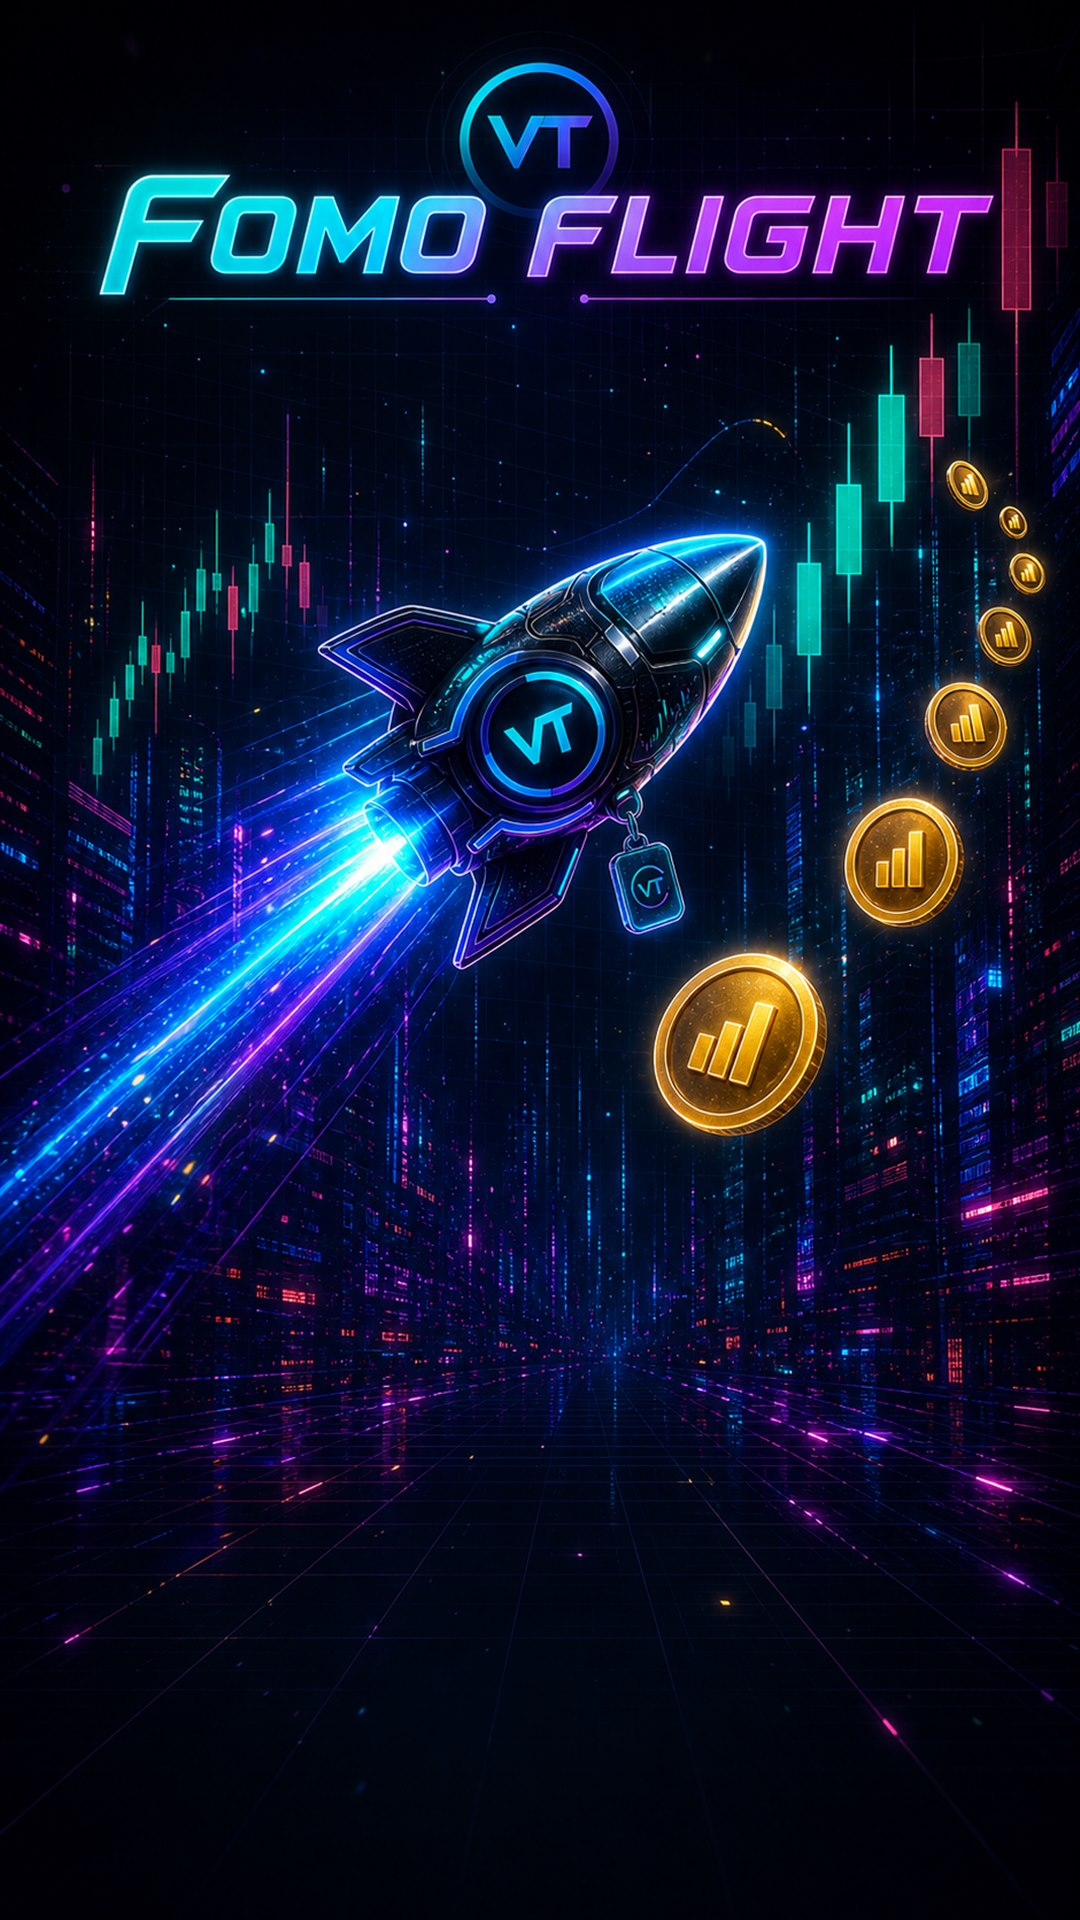
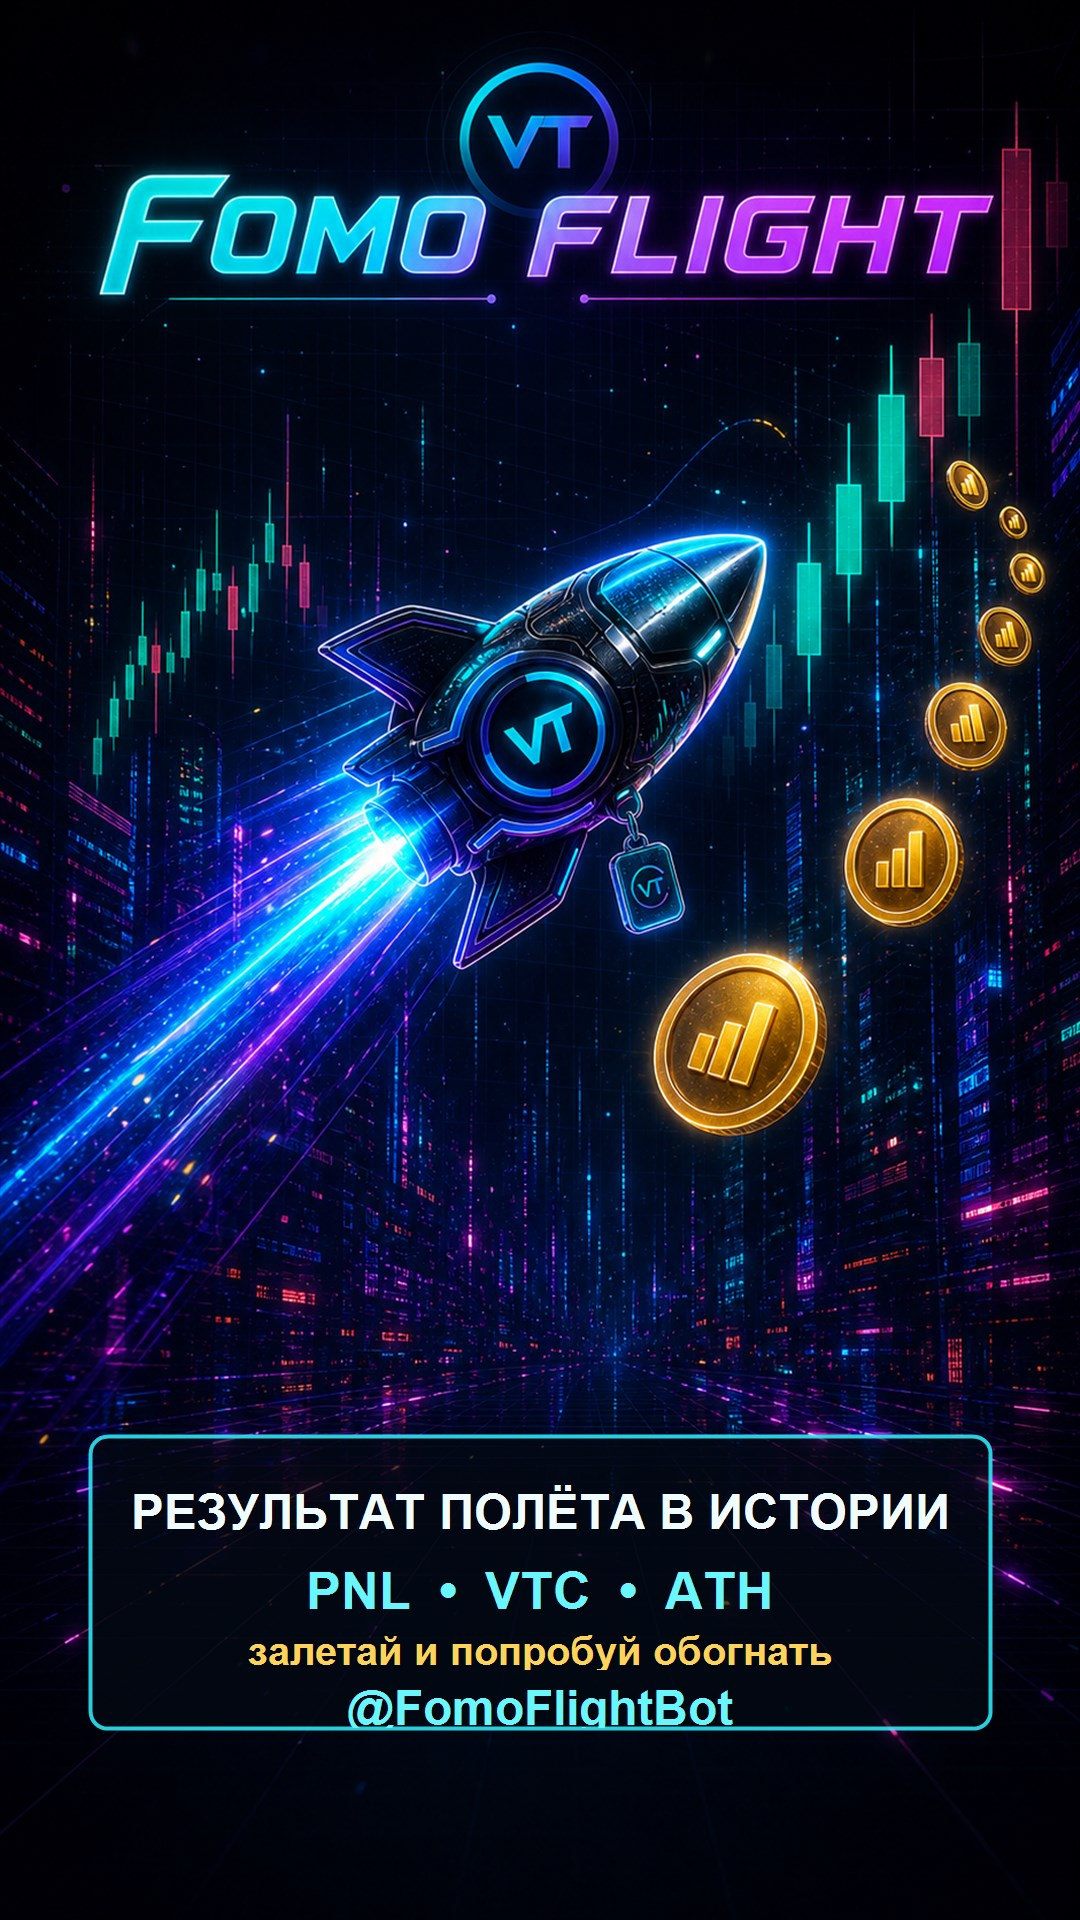
Improve story share copy

diff --git a/public/index.html b/public/index.html
@@ -1777,11 +1777,12 @@
 
         async function share() {
           const data = lastRun.score ? lastRun : { score: Math.floor(score), vtc: runCoins, ath: progress.best, newBest: false, line: gameOverLine() };
+          const pilot = displayName();
           const message = data.newBest
-            ? `Fomo Flight: NEW ATH ${data.ath} PNL, +${data.vtc} VTC. Can you beat it?\n@FomoFlightBot`
-            : `Fomo Flight: ${data.score} PNL, +${data.vtc} VTC. Can you beat my ATH?\n@FomoFlightBot`;
+            ? `Fomo Flight: ${pilot} hit NEW ATH ${data.ath} PNL and earned +${data.vtc} VTC. Can you beat it?\n@FomoFlightBot`
+            : `Fomo Flight: ${pilot} scored ${data.score} PNL, earned +${data.vtc} VTC. Can you beat my ATH ${data.ath}?\n@FomoFlightBot`;
           const appLink = miniAppLink;
-          const storyText = (data.newBest ? `NEW ATH ${data.ath} PNL, +${data.vtc} VTC\n@FomoFlightBot | t.me/FomoFlightBot` : `${data.score} PNL, +${data.vtc} VTC\n@FomoFlightBot | t.me/FomoFlightBot`).slice(0, 190);
+          const storyText = storyShareText(data, pilot);
           const shareUrl = `https://t.me/share/url?url=${encodeURIComponent(appLink)}&text=${encodeURIComponent(message)}`;
           const card = createShareCard(data);
           try {
@@ -1813,6 +1814,13 @@
             else window.open(shareUrl, "_blank");
           }
           beep("buy");
+        }
+
+        function storyShareText(data, pilot) {
+          const line1 = data.newBest ? `NEW ATH: ${data.ath} PNL` : `${pilot}: ${data.score} PNL`;
+          const line2 = data.newBest ? `+${data.vtc} VTC earned` : `+${data.vtc} VTC | ATH ${data.ath}`;
+          const line3 = data.newBest ? "Can you beat this flight?" : "Can you beat my flight?";
+          return `${line1}\n${line2}\n${line3}\n@FomoFlightBot | t.me/FomoFlightBot`.slice(0, 190);
         }
 
         async function uploadShareCard(card) {

diff --git a/public/play.html b/public/play.html
@@ -1777,11 +1777,12 @@
 
         async function share() {
           const data = lastRun.score ? lastRun : { score: Math.floor(score), vtc: runCoins, ath: progress.best, newBest: false, line: gameOverLine() };
+          const pilot = displayName();
           const message = data.newBest
-            ? `Fomo Flight: NEW ATH ${data.ath} PNL, +${data.vtc} VTC. Can you beat it?\n@FomoFlightBot`
-            : `Fomo Flight: ${data.score} PNL, +${data.vtc} VTC. Can you beat my ATH?\n@FomoFlightBot`;
+            ? `Fomo Flight: ${pilot} hit NEW ATH ${data.ath} PNL and earned +${data.vtc} VTC. Can you beat it?\n@FomoFlightBot`
+            : `Fomo Flight: ${pilot} scored ${data.score} PNL, earned +${data.vtc} VTC. Can you beat my ATH ${data.ath}?\n@FomoFlightBot`;
           const appLink = miniAppLink;
-          const storyText = (data.newBest ? `NEW ATH ${data.ath} PNL, +${data.vtc} VTC\n@FomoFlightBot | t.me/FomoFlightBot` : `${data.score} PNL, +${data.vtc} VTC\n@FomoFlightBot | t.me/FomoFlightBot`).slice(0, 190);
+          const storyText = storyShareText(data, pilot);
           const shareUrl = `https://t.me/share/url?url=${encodeURIComponent(appLink)}&text=${encodeURIComponent(message)}`;
           const card = createShareCard(data);
           try {
@@ -1813,6 +1814,13 @@
             else window.open(shareUrl, "_blank");
           }
           beep("buy");
+        }
+
+        function storyShareText(data, pilot) {
+          const line1 = data.newBest ? `NEW ATH: ${data.ath} PNL` : `${pilot}: ${data.score} PNL`;
+          const line2 = data.newBest ? `+${data.vtc} VTC earned` : `+${data.vtc} VTC | ATH ${data.ath}`;
+          const line3 = data.newBest ? "Can you beat this flight?" : "Can you beat my flight?";
+          return `${line1}\n${line2}\n${line3}\n@FomoFlightBot | t.me/FomoFlightBot`.slice(0, 190);
         }
 
         async function uploadShareCard(card) {